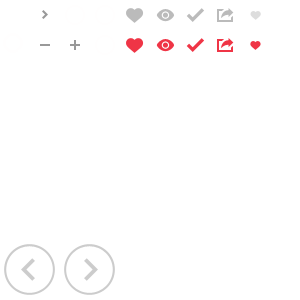
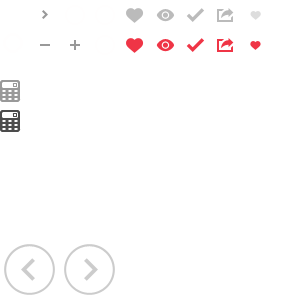
1

Changed region(s): [[0.0, 0.24, 0.09, 0.45]]

diff --git a/public/js/plugin.js b/public/js/plugin.js
@@ -470,7 +470,7 @@
         $this.bind('contextmenu', function(e) {
             return false;
         });
-    }
+    };
     $.fn.xCenter = function() {
         var $this = $(this);
         var parent = $this.parent();
@@ -479,7 +479,7 @@
             $this.css('position', 'absolute');
         }
         $this.css('left', (pw - $this.width()) / 2);
-    }
+    };
 
 
     $.currency = {
@@ -650,7 +650,11 @@
         set: function(id, qty) {
             if (typeof qty === 'number') {
                 var c = this.parse();
-                c[id] = qty;
+                if (qty === 0) {
+                    delete c[id];
+                } else {
+                    c[id] = qty;
+                }
                 this.write(JSON.stringify(c));
             } else {
                 return false;

diff --git a/public/css/sub.css b/public/css/sub.css
@@ -297,3 +297,15 @@
     margin:0;
     padding:0 0 0 36px;
 }
+.calculator-ico {
+    background:url(../img/ico.png) left -80px no-repeat;
+    cursor:pointer;
+    display:inline-block;
+    height:22px;
+    margin-left: 10px;
+    top: 7px;
+    width:20px;
+}
+.calculator-ico:hover {
+    background-position:left -110px;
+}

diff --git a/application/modules/angel/controllers/ProductController.php b/application/modules/angel/controllers/ProductController.php
@@ -42,10 +42,11 @@ class Angel_ProductController extends Angel_Controller_Action {
     public function cartAction() {
         if ($this->request->isPost()) {
             $query = $this->request->getParam('query');
+            $resource = array();
+            $code = 404;
             if ($query) {
                 $productModel = $this->getModel('product');
                 $qs = explode("|", $query);
-                $resource = array();
                 foreach ($qs as $id) {
                     $product = $productModel->getById($id);
                     $pArr = array('id' => $id,
@@ -63,10 +64,10 @@ class Angel_ProductController extends Angel_Controller_Action {
                     $pArr['link'] = $this->view->url(array('id' => $id), 'product-view');
                     $resource[] = $pArr;
                 }
-
-                $this->_helper->json(array('data' => $resource,
-                    'code' => 200));
+                $code = 200;
             }
+            $this->_helper->json(array('data' => $resource,
+                'code' => $code));
         } else {
             $this->view->title = "My Cart";
         }
